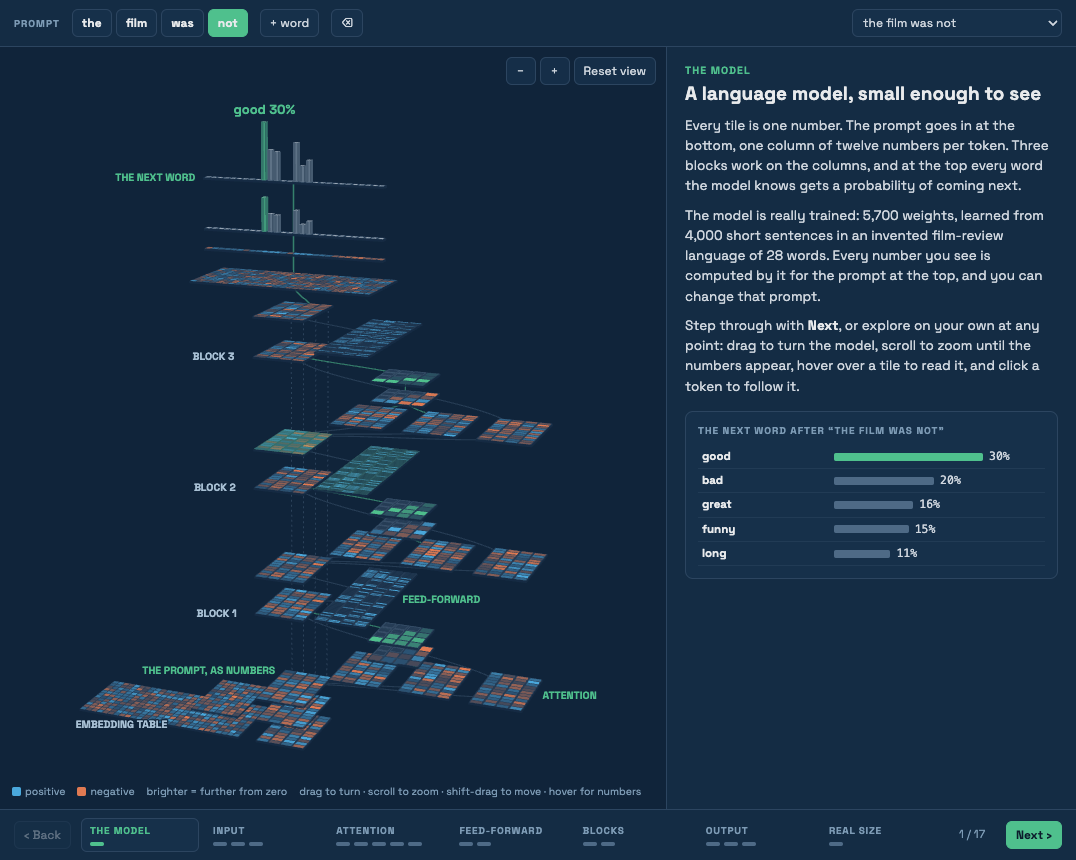
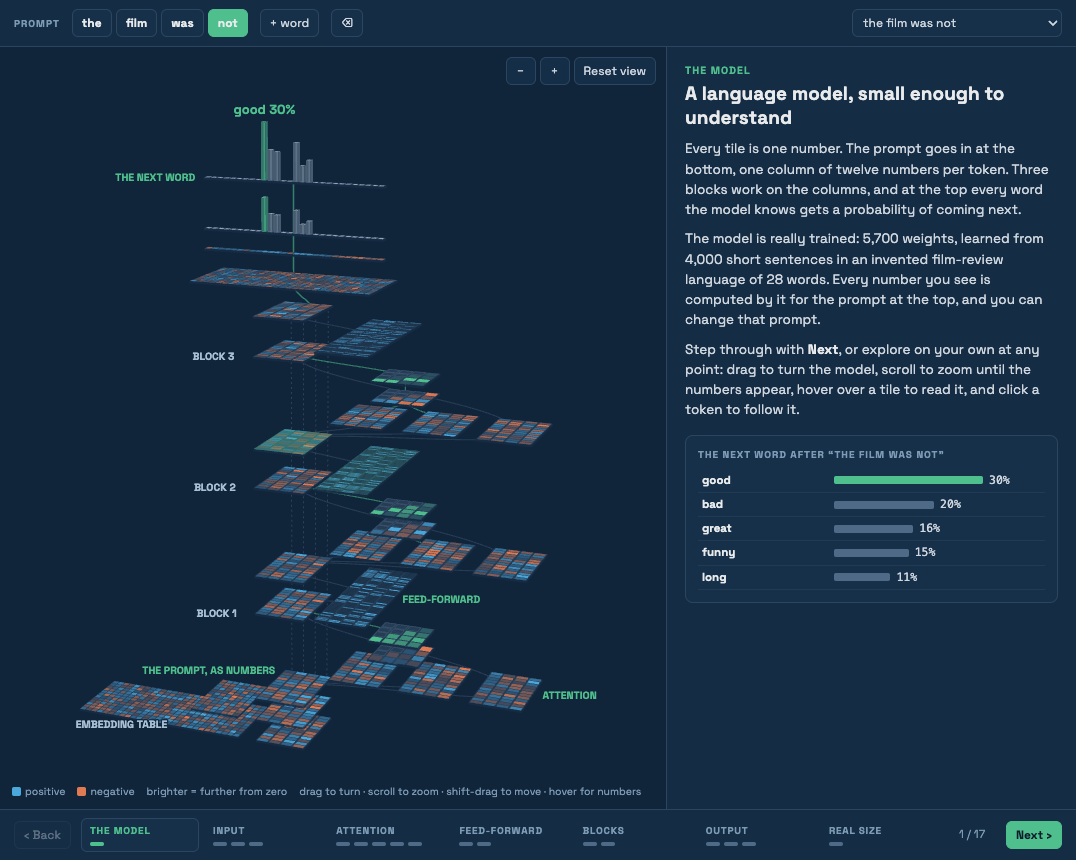
Release up to week 4 (2026-11-18)

Changed region(s): [[0.6134, 0.0907, 0.9814, 0.6953], [0.7667, 0.6349, 0.8587, 0.6953]]

diff --git a/explainers/tinygpt/index.html b/explainers/tinygpt/index.html
@@ -533,7 +533,7 @@
   function attRow() { return R.B[st.blk].a[st.foc].slice(0, st.foc + 1); }
 
   var STEPS = [
-  { ch: 0, title: "A language model, small enough to see",
+  { ch: 0, title: "A language model, small enough to understand",
     cam: overviewCam, rest: 1,
     pre: function (at, now) { if (reduced) return; var f = ((now - stepT0) / 620) % (4 * L + 6) - 1;
       floors.forEach(function (F) { var fl = F.block != null ? 1 + 4 * F.block + (F.off <= OFF.qkv ? 0 : F.off <= OFF.a ? 1 : F.off <= OFF.m ? 1.6 : F.off <= OFF.h ? 2.3 : 3) : F.top != null ? 4 * L + 1 + F.top / 8 : F.id === "x" ? 0 : -1;
